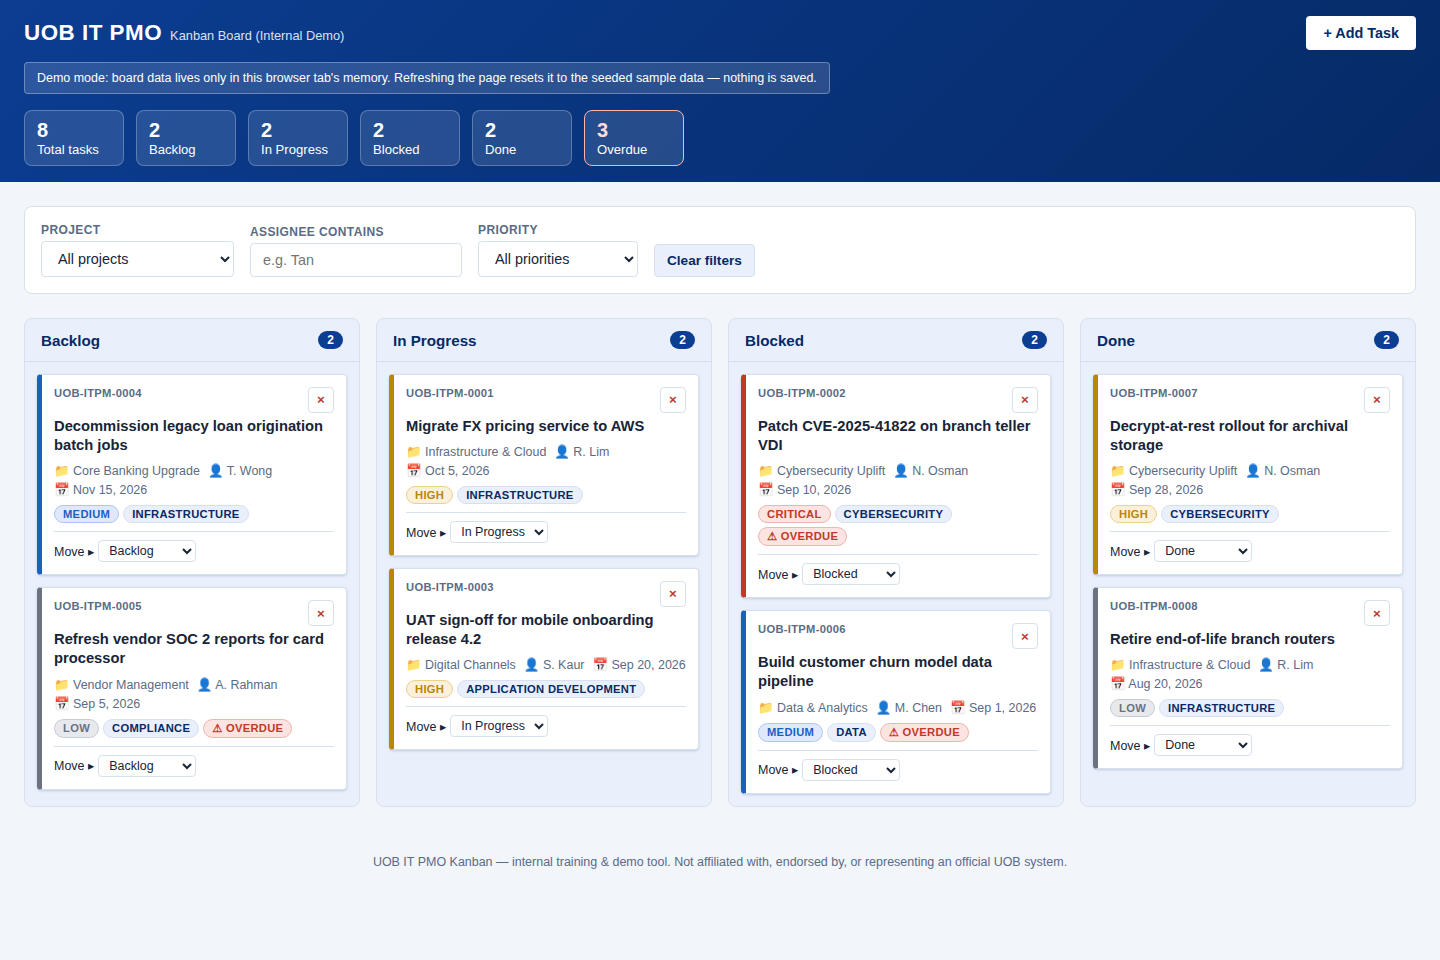
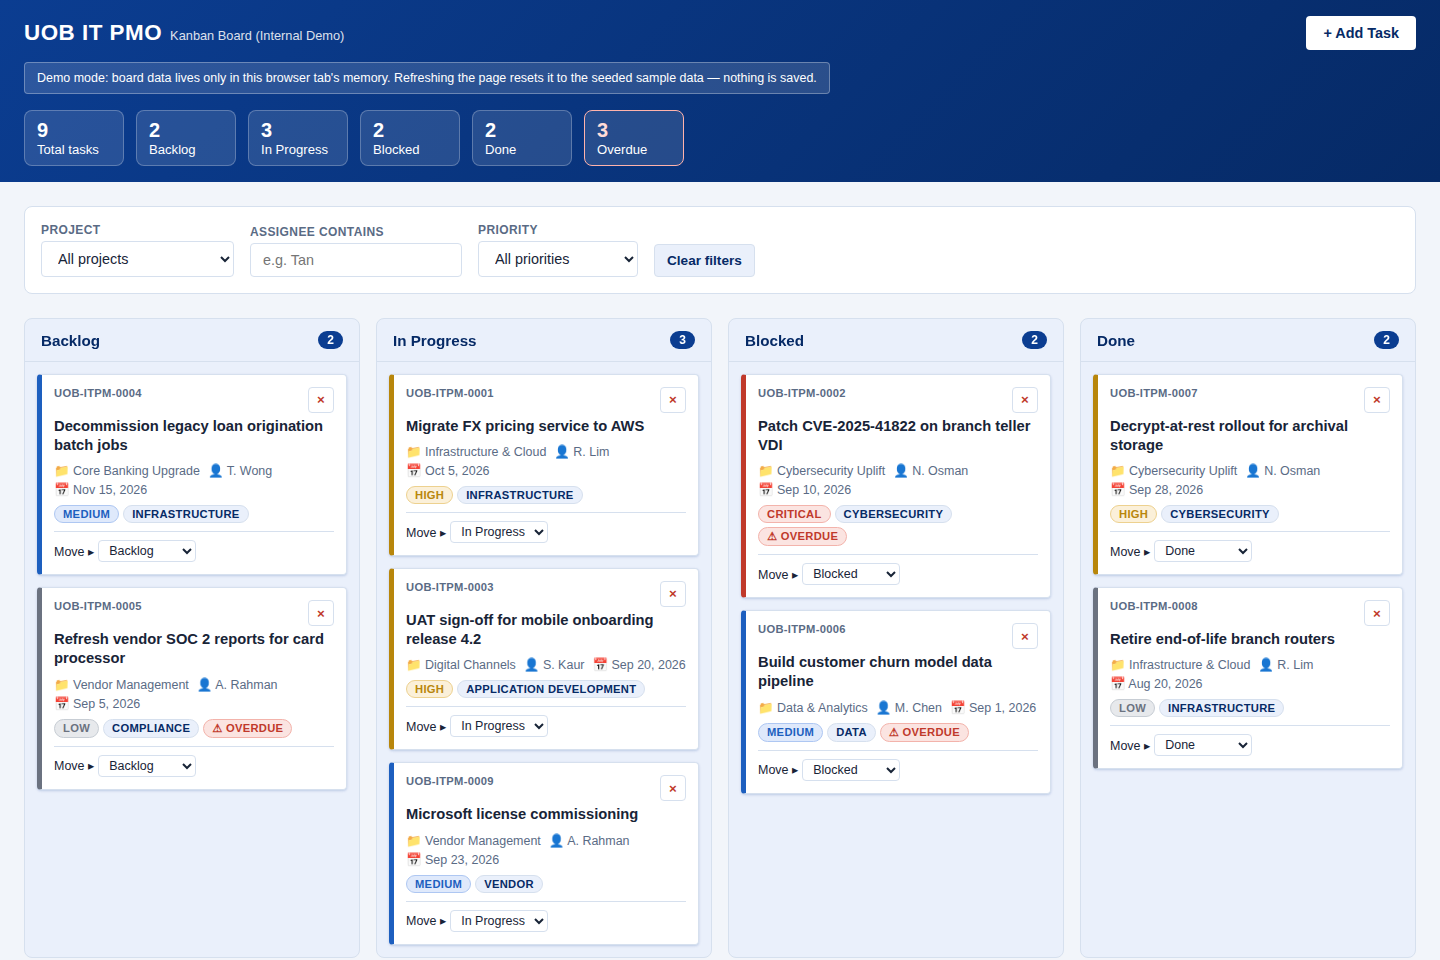
Add Microsoft license commissioning task
Seed a new In Progress task for the Microsoft licensing agreement
commissioning, due 2026-09-23, and refresh the README screenshot to
reflect the updated board.

Claude-Session: https://claude.ai/code/session_01SmRMFjfQvatnEcUz3nXhYY

diff --git a/index.html b/index.html
@@ -830,6 +830,16 @@
         dueDate: "2026-08-20",
         status: "Done",
       },
+      {
+        title: "Microsoft license commissioning",
+        description: "Commission the new Microsoft licensing agreement ahead of the renewal due date.",
+        project: "Vendor Management",
+        category: "Vendor",
+        assignee: "A. Rahman",
+        priority: "Medium",
+        dueDate: "2026-09-23",
+        status: "In Progress",
+      },
     ];
 
     seed.forEach((t) => {
